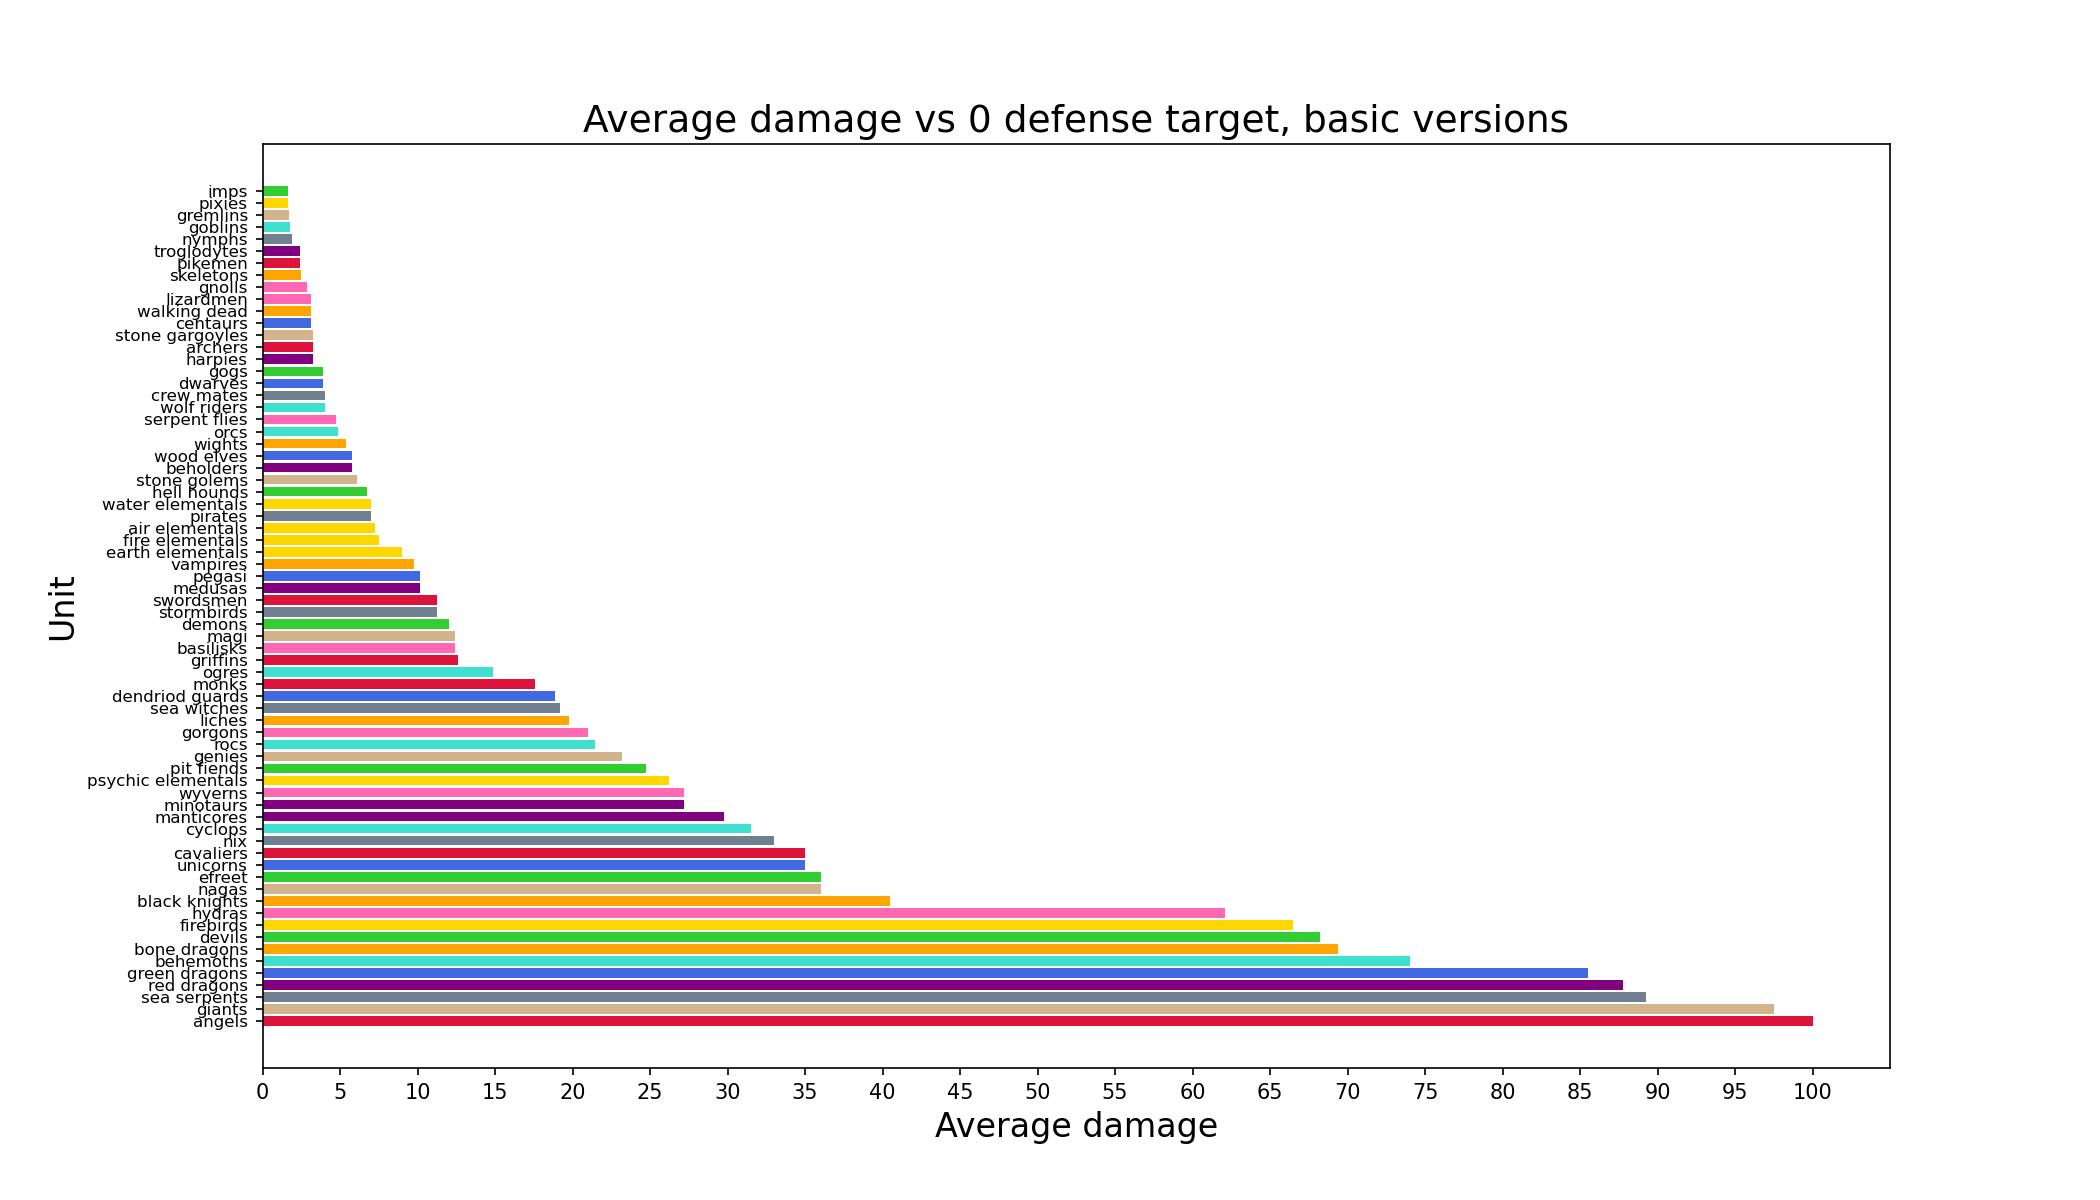
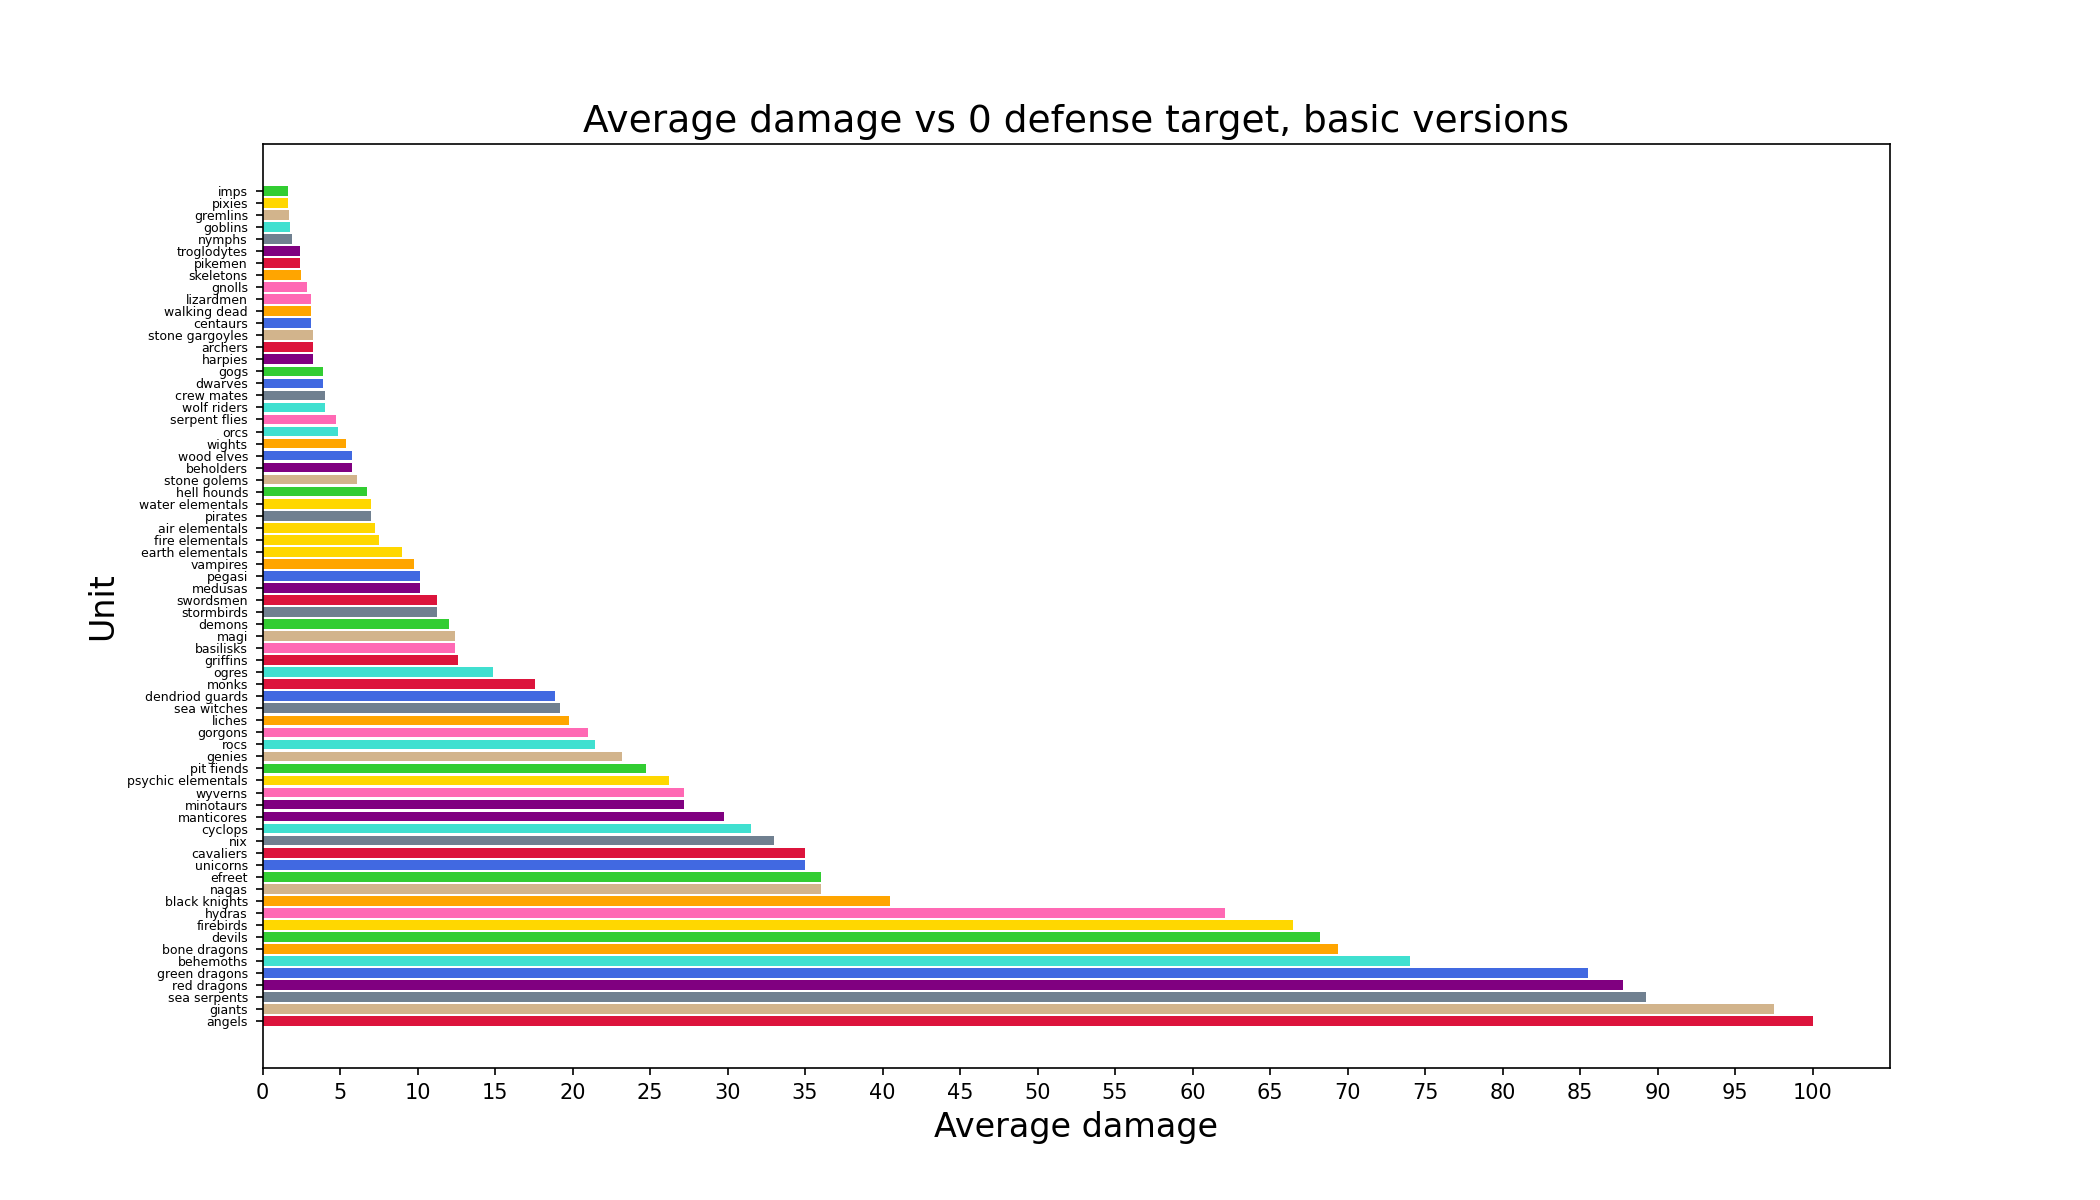
Stuff and things (#2)

Changed region(s): [[0.031, 0.1542, 0.1238, 0.8633], [0.4333, 0.925, 0.5571, 0.9558]]

diff --git a/common/ehp.py b/common/ehp.py
@@ -1,19 +1,42 @@
 import re
+global ATTACK
+ATTACK = 0
 
-def e_hp(row, attack=20):
-    hp = row["health"]
+def e_hp(row):
     special = row["special"]
+    hp = row["health"]
+    attack = ATTACK
 
-    if "Ignores 30% of enemy's attack skill" in special:
-        damage_min = 1.2 * damage_min
+    if "enemy's attack skill" in special:
+        numbers = re.findall(r'\d+', special)
+        attack = attack - int(numbers[0])/100 * attack
 
     ADD = attack - row["defense"]
      # For each extra point of Defense skill over attackers's Attack skill, the received damage gets reduced by 2.5 % (up to 70 %, which is 28 points in difference).
     if ADD >= 0:
         ADD = min(ADD, 60)
-        ehp = hp - (hp * 0.05 * ADD)
+        ehp = 1 - (0.05 * ADD)
     else:
         ADD = ADD * -1
         ADD = min(ADD, 28)
-        ehp = hp + (hp * 0.025 * ADD)
+        ehp = 1 + (0.025 * ADD)
+    return hp * ehp
+
+def e_hp_coef(row):
+    special = row["special"]
+    attack = ATTACK
+
+    if "enemy's attack skill" in special:
+        numbers = re.findall(r'\d+', special)
+        attack = attack - int(numbers[0])/100 * attack
+
+    ADD = attack - row["defense"]
+     # For each extra point of Defense skill over attackers's Attack skill, the received damage gets reduced by 2.5 % (up to 70 %, which is 28 points in difference).
+    if ADD >= 0:
+        ADD = min(ADD, 60)
+        ehp = 1 + (0.05 * ADD)
+    else:
+        ADD = ADD * -1
+        ADD = min(ADD, 28)
+        ehp = 1 - (0.025 * ADD)
     return ehp

diff --git a/chart_scripts/growths/growths_and_gold_needed_to_reach_damage.py b/chart_scripts/growths/growths_and_gold_needed_to_reach_damage.py
@@ -1,0 +1,34 @@
+from main import units, town_colors, legend_elements, chart_data_path
+from common import average_damage
+import pandas as pd
+import matplotlib.pyplot as plt
+import os
+
+set_damage = 500
+title = f'number of maximum growths and gold needed to reach {set_damage} damage'
+chart_name = title
+states = ['upgraded', 'neutral']
+
+
+u = units.query(f'state == "{states[0]}" or state == "{states[1]}"')
+
+u = u.assign(avg_dmg=u.apply(average_damage.avg_dmg, axis=1))
+u["growths"] = (set_damage / u.avg_dmg / u.max_growth).round(0)
+u["gold_req"] = u.growths * u.gold_cost / 1000
+
+
+units_to_chart = u[["name", "fraction", "growths", "gold_req"]]
+w = 0.6
+chart = units_to_chart.sort_values('growths', ascending=True).plot(x=0, kind="barh",
+                                                                   stacked=True,
+                                                                   figsize=(18, 10),
+                                                                   width=w,
+                                                                   fontsize=6,
+                                                                   ylabel="growths, gold in thousands",
+                                                                   xticks=range(0, int(max(u["gold_req"]) + max(u["growths"])), 2),
+                                                                   title=title)
+fig = chart.get_figure()
+fig.savefig(os.path.join(chart_data_path, chart_name + '.png'))
+
+
+plt.show()

diff --git a/chart_scripts/hp/eHp_per_gold_upgraded.py b/chart_scripts/hp/eHp_per_gold_upgraded.py
@@ -5,16 +5,18 @@ import matplotlib.pyplot as plt
 import seaborn as sns
 import os
 from common import ehp
-
+# FIXME: not negative values?
+ehp.ATTACK = 40
+gold = 1
 tiers = (1, 7)
 state = "upgraded"
-title = 'eHp per 5000 gold - units upgraded'
+title = f'eHp per {gold} gold - units upgraded vs {ehp.ATTACK} attack'
 chart_name = title
 
 units_basic = units.query(f"state == '{state}'")
 
 units_basic = units_basic.assign(eHP=units_basic.apply(ehp.e_hp, axis=1))
-units_basic = units_basic.assign(eHP_per_gold=1000/units_basic["gold_cost"] * units_basic["eHP"])
+units_basic = units_basic.assign(eHP_per_gold=gold/units_basic["gold_cost"] * units_basic["eHP"])
 
 units_plot = units_basic[["name", "eHP_per_gold", "fraction", "tier"]]
 units_plot.sort_values(inplace=True, by='eHP_per_gold', ascending=False)
@@ -25,7 +27,7 @@ for i in range(len(units_plot)):
     unit = units_plot.iloc[i]
     ax.barh(width=unit["eHP_per_gold"], color=town_colors[unit["fraction"]], y=unit["name"], align='center')
 ax.tick_params(axis='x', labelsize=5)
-ax.set_xlabel('eHP', fontsize=8)
+ax.set_xlabel(f'eHP per {gold} gold', fontsize=8)
 ax.set_ylabel('Unit', fontsize=8)
 ax.set_title(title, fontsize=8)
 ax.set_yticklabels(labels=units_plot["name"], fontsize=4.8)

diff --git a/chart_scripts/defense/defense_eff.py b/chart_scripts/defense/defense_eff.py
@@ -1,0 +1,37 @@
+from main import units, town_colors, chart_data_path
+import pandas as pd
+import matplotlib.pyplot as plt
+import seaborn as sns
+import os
+from common import ehp
+
+
+current_attack = 10
+ehp.ATTACK = current_attack
+
+title = f'Numbers of units killed with dmg = max health, attacker Attack = {current_attack}'
+chart_name = title
+state = 'upgraded'
+
+units_basic = units.query(f"state == '{state}'")
+
+units_basic = units_basic.assign(e_hp=units_basic.apply(ehp.e_hp_coef, axis=1))
+
+units_plot = units_basic[["name", "e_hp", "fraction", "tier"]]
+units_plot.sort_values(inplace=True, by='e_hp', ascending=False)
+fig = plt.figure(figsize=(14, 8), dpi=150)
+ax = fig.add_subplot(1, 1, 1)
+
+
+for i in range(len(units_plot)):
+    unit = units_plot.iloc[i]
+    ax.barh(width=unit["e_hp"], color=town_colors[unit["fraction"]], y=unit["name"], align='center')
+ax.set_xlabel('eHP', fontsize=16)
+ax.set_ylabel('Unit', fontsize=16)
+ax.set_title(title, fontsize=18)
+ax.set_yticklabels(labels=units_plot["name"], fontsize=5)
+fig.savefig(os.path.join(chart_data_path, chart_name + '.png'))
+#plt.grid()
+plt.show()
+
+

diff --git a/chart_scripts/value/value_per_gold_upgraded.py b/chart_scripts/value/value_per_gold_upgraded.py
@@ -1,0 +1,35 @@
+from main import units, town_colors, chart_data_path
+import pandas as pd
+import matplotlib.gridspec as gridspec
+import matplotlib.pyplot as plt
+import seaborn as sns
+import os
+# FIXME: not negative values?
+
+gold = 1
+tiers = (1, 7)
+state = "upgraded"
+title = f'Value per {gold} gold'
+chart_name = title
+
+u = units.query(f"state == '{state}'")
+
+u["value_per_gold"] = units.AI_value / units.gold_cost
+
+units_plot = u[["name", "value_per_gold", "fraction", "tier"]]
+units_plot.sort_values(inplace=True, by='value_per_gold', ascending=False)
+fig = plt.figure(figsize=(14, 8), dpi=150)
+ax = fig.add_subplot(1, 1, 1)
+
+for i in range(len(units_plot)):
+    unit = units_plot.iloc[i]
+    ax.barh(width=unit["value_per_gold"], color=town_colors[unit["fraction"]], y=unit["name"], align='center')
+ax.tick_params(axis='x', labelsize=5)
+ax.set_xlabel(f'Value per {gold} gold', fontsize=8)
+ax.set_ylabel('Unit', fontsize=8)
+ax.set_title(title, fontsize=8)
+ax.set_yticklabels(labels=units_plot["name"], fontsize=4.8)
+
+
+fig.savefig(os.path.join(chart_data_path, chart_name + '.png'))
+plt.show()

diff --git a/chart_scripts/gold_cost/overall_cost_1-3_upgraded.py b/chart_scripts/gold_cost/overall_cost_1-3_upgraded.py
@@ -1,0 +1,41 @@
+from main import units, town_colors, chart_data_path
+import pandas as pd
+import matplotlib.pyplot as plt
+import seaborn as sns
+import os
+
+tiers = (1, 3)
+state = "upgraded"
+title = 'gold cost of maximum growth for each town, units tiers 1-3'
+
+units = units.query(f'tier >= {tiers[0]} & tier <= {tiers[1]} & state == "{state}" & name != "corsairs"')
+units["max_gold_cost"] = units.max_growth * units.gold_cost
+
+t = pd.DataFrame(index=[town for town in town_colors.keys() if town != 'neutral'])
+t["max_gold_cost"] = units.groupby(["fraction"])['max_gold_cost'].sum()
+
+
+t = t.sort_values(by="max_gold_cost", ascending=False)
+
+indexes = t.index.values
+colors_in_order = [town_colors[town] for town in indexes]
+
+chart = t.plot(y=0, kind='bar', color=colors_in_order, figsize=(16.5, 8.5), xlabel="towns", ylabel="gold", legend=False,
+       title=title, ylim=(0, 10_000))
+fig = chart.get_figure()
+fig.savefig(os.path.join(chart_data_path, title + '.png'))
+plt.show()
+
+
+
+
+
+
+
+
+
+
+
+
+
+

diff --git a/chart_scripts/gold_cost/weekly_max_cost_of_not_upgraded_units.py b/chart_scripts/gold_cost/weekly_max_cost_of_not_upgraded_units.py
@@ -1,0 +1,40 @@
+from main import units, town_colors, chart_data_path
+import pandas as pd
+import matplotlib.pyplot as plt
+import seaborn as sns
+import os
+
+tiers = (1, 7)
+state = "basic"
+title = 'weekly cost of all upgraded units'
+
+units = units.query(f'tier >= {tiers[0]} & tier <= {tiers[1]} & state == "{state}" & name != "corsairs"')
+units["max_gold_cost"] = units.max_growth * units.gold_cost
+
+t = pd.DataFrame(index=[town for town in town_colors.keys() if town != 'neutral'])
+t["max_gold_cost"] = units.groupby(["fraction"])['max_gold_cost'].sum()
+
+
+t = t.sort_values(by="max_gold_cost", ascending=False)
+indexes = t.index.values
+colors_in_order = [town_colors[town] for town in indexes]
+
+chart = t.plot(y=0, kind='bar', color=colors_in_order, figsize=(16.5, 8.5), xlabel="towns", ylabel="gold", legend=False,
+       title=title, ylim=(0, 26_000))
+fig = chart.get_figure()
+fig.savefig(os.path.join(chart_data_path, title + '.png'))
+plt.show()
+
+
+
+
+
+
+
+
+
+
+
+
+
+

diff --git a/chart_scripts/gold_cost/weekly_max_cost_of_upgraded_units.py b/chart_scripts/gold_cost/weekly_max_cost_of_upgraded_units.py
@@ -4,9 +4,9 @@ import matplotlib.pyplot as plt
 import seaborn as sns
 import os
 
-tiers = (1, 3)
+tiers = (1, 7)
 state = "upgraded"
-title = 'gold cost of maximum growth for each town, units tiers 1-3'
+title = 'weekly cost of all upgraded units'
 
 units = units.query(f'tier >= {tiers[0]} & tier <= {tiers[1]} & state == "{state}" & name != "corsairs"')
 units["max_gold_cost"] = units.max_growth * units.gold_cost
@@ -16,15 +16,13 @@ t["max_gold_cost"] = units.groupby(["fraction"])['max_gold_cost'].sum()
 
 
 t = t.sort_values(by="max_gold_cost", ascending=False)
-
 indexes = t.index.values
 colors_in_order = [town_colors[town] for town in indexes]
 
 chart = t.plot(y=0, kind='bar', color=colors_in_order, figsize=(16.5, 8.5), xlabel="towns", ylabel="gold", legend=False,
-       title=title, ylim=(6_000, 10_000))
+       title=title, ylim=(0, 35_000))
 fig = chart.get_figure()
 fig.savefig(os.path.join(chart_data_path, title + '.png'))
-
 plt.show()
 
 

diff --git a/common/average_damage.py b/common/average_damage.py
@@ -8,6 +8,7 @@ def avg_dmg(row, defense=0):
 
     if "Death blow" in special:
         damage_min = 1.2 * damage_min
+        damage_max = 1.2 * damage_max
 
     if ADD >= 0:
         d_min = damage_min * (1 + 0.05 * ADD)
@@ -20,5 +21,5 @@ def avg_dmg(row, defense=0):
 
     if "twice" in special or "Ferocity" in special:
         return avg * 2
-    else:
-        return avg
+
+    return avg

diff --git a/chart_scripts/damage/units_average_damage_basic.py b/chart_scripts/damage/units_average_damage_basic.py
@@ -27,6 +27,6 @@ ax.set_xticks(list(range(0, int(max(units_plot["avg_dmg"])) + 1, 5)))
 ax.set_xlabel('Average damage', fontsize=16)
 ax.set_ylabel('Unit', fontsize=16)
 ax.set_title(title, fontsize=18)
-ax.set_yticklabels(labels=units_plot["name"], fontsize=8)
+ax.set_yticklabels(labels=units_plot["name"], fontsize=6)
 fig.savefig(os.path.join(chart_data_path, chart_name + '.png'))
 plt.show()
